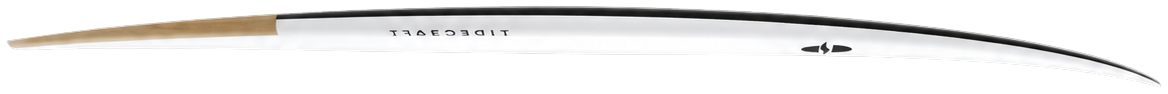
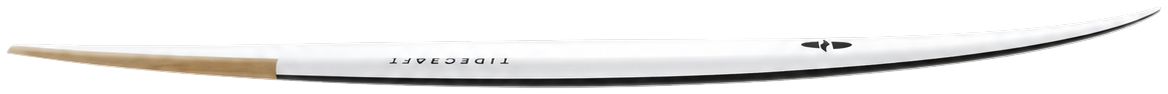
feat(intro): new hero, and the middle board the right way up
The hero slot holds an underwater barrel frame supplied by the owner. The
file is named hero-barrel.jpg rather than keeping hero-aerial.jpg, which
described a photograph that is no longer there.

Its crop is retuned. The plate shows about three quarters of a portrait
frame's height, and on this image that choice decides whether the board
under the wave is in the picture at all: at the old 34% it sat on the
bottom edge, at 50% it reads with open water beneath it. Holding the board
matters more here than holding the top of the barrel — it is what the page
is about.

The "reference image · not licensed for publication" caption is removed at
the owner's request, along with the rule that styled it, which had no other
user. The provenance did not go away with it: the photography register now
carries it alone and says so, and the file stays gitignored like every
other frame.

Rocker

The middle board sat rocker-down between two rocker-up neighbours. The side
profile is quarter-turned to put the nose right, and which way the deck
then faces depends on the source's handedness — the same disagreement that
puts the bottom view on opposite sides in these three files. The vertical
mirror was being applied to all three; it now follows the same `order` the
view assignment uses, so it corrects the two sources that need it and
leaves the one that does not.

Fixed in the exported file, not in CSS, for the reason the previous commit
[…]

diff --git a/frontend/comparison-prototype/src/journey/stages/IntroStage.tsx b/frontend/comparison-prototype/src/journey/stages/IntroStage.tsx
@@ -27,7 +27,7 @@ import { useJourney } from '../journeyState'
 
 type Composition = 'a' | 'b' | 'c'
 
-const HERO = `${import.meta.env.BASE_URL}photography/hero-aerial.jpg`
+const HERO = `${import.meta.env.BASE_URL}photography/hero-barrel.jpg`
 
 function useComposition(): Composition {
   const param = new URLSearchParams(window.location.search).get('intro')
@@ -122,12 +122,7 @@ export function IntroStage() {
     return (
       <main className="stage stage--intro intro--detail" data-composition="c">
         <div className="idetail">
-          <figure className="idetail__media">
-            {photo}
-            {/* An editorial caption, which also carries the provenance
-                honestly rather than hiding it in a file nobody opens. */}
-            <figcaption className="idetail__caption mono">Reference image · not licensed for publication</figcaption>
-          </figure>
+          <figure className="idetail__media">{photo}</figure>
           <div className="idetail__rail">
             <Logo className="idetail__logo" />
             <h1 className="idetail__title">

diff --git a/frontend/comparison-prototype/src/styles/journey.css b/frontend/comparison-prototype/src/styles/journey.css
@@ -1642,21 +1642,14 @@
   margin: clamp(20px, 4vh, 54px) 0 clamp(20px, 4vh, 54px) clamp(20px, 3vw, 54px);
 }
 
-.idetail__caption {
-  position: absolute;
-  left: 0;
-  bottom: 10px;
-  padding: 4px 8px;
-  background: rgba(10, 24, 32, 0.38);
-  border-radius: 2px;
-  color: rgba(241, 241, 237, 0.82);
-  font-size: var(--fs-11);
-  letter-spacing: var(--ls-label);
-  text-transform: uppercase;
-}
-
+/* 34% was tuned for the aerial frame this slot used to hold. The plate crops
+   about a quarter of a portrait image's height, and on the barrel shot that
+   quarter decides whether the board under the wave is in the picture: at 34%
+   it sits on the bottom edge against the caption, at 50% it reads clearly
+   with the deep water under it. Holding the board matters more here than
+   holding the top of the barrel — it is what the page is about. */
 .idetail__media .introshot__img {
-  object-position: center 34%;
+  object-position: center 50%;
   filter: saturate(0.9) contrast(1.03);
 }
 

diff --git a/photography/REGISTER.md b/photography/REGISTER.md
@@ -22,15 +22,32 @@ file is absent, so a fresh clone builds and runs.
 
 | File | Slot | Source | Photographer | Licence | Status |
 |---|---|---|---|---|---|
-| `hero-aerial.jpg` | Intro hero | [unsplash.com/photos/L78RstAZuTY](https://unsplash.com/photos/L78RstAZuTY) | Silas Baisch | Unsplash | `reference` |
+| `hero-barrel.jpg` | Intro hero | Supplied by the project owner | unknown | **to confirm** | `reference` |
 | `waves-small-weak.jpg` | Q7 · small and weak, 1–2 ft | Supplied by the project owner — Figma `xXrzNJb56TNBy3IxffjG2R`, node `15:10` ("small 1-2 ft") | unknown | **to confirm** | `reference` |
 | `waves-medium-push.jpg` | Q7 · medium with push, 2–4 ft | Supplied by the project owner — Figma `xXrzNJb56TNBy3IxffjG2R`, node `15:11` ("medium 2-4 ft") | unknown | **to confirm** | `reference` |
 | `waves-powerful.jpg` | Q7 · powerful and steep, 5 ft + | Supplied by the project owner — Figma `xXrzNJb56TNBy3IxffjG2R`, node `15:12` ("big 5+ ft") | unknown | **to confirm** | `reference` |
 | `waves-variable.jpg` | Q7 · conditions vary | [unsplash.com/photos/ibeKWxHvems](https://unsplash.com/photos/ibeKWxHvems) | — | Unsplash | `reference` |
 
-`hero-aerial.jpg` and `waves-variable.jpg` were downloaded at 1400px, q72, from
-`images.unsplash.com`. The three Q7 frames were exported from the Figma file
-above and resampled to the same 1400px / q72 to match.
+`waves-variable.jpg` was downloaded at 1400px, q72, from `images.unsplash.com`.
+The three Q7 frames were exported from the Figma file above and resampled to
+the same 1400px / q72 to match. `hero-barrel.jpg` arrived at 1333px wide, near
+enough to 1400 that resampling up would only invent detail, so it keeps its
+native size and is re-encoded at the same q72.
+
+### On the hero
+
+It replaced `hero-aerial.jpg` (Silas Baisch, Unsplash, `L78RstAZuTY`), which
+was an aerial frame — hence the old slot name, which is why the file is now
+called `hero-barrel.jpg` rather than keeping a name that describes a picture
+that is no longer there.
+
+The replacement came straight from the project owner with no source attached,
+so its licence column says **to confirm** for the same reason the three Q7
+frames do: someone has to establish where it came from before it is published.
+It is treated exactly like the other placeholders in the meantime — local and
+gitignored. The on-image caption that used to carry this provenance in the
+interface has been removed at the owner's request, so **this register is now
+the only place it is recorded.**
 
 ### On the three supplied frames
 
